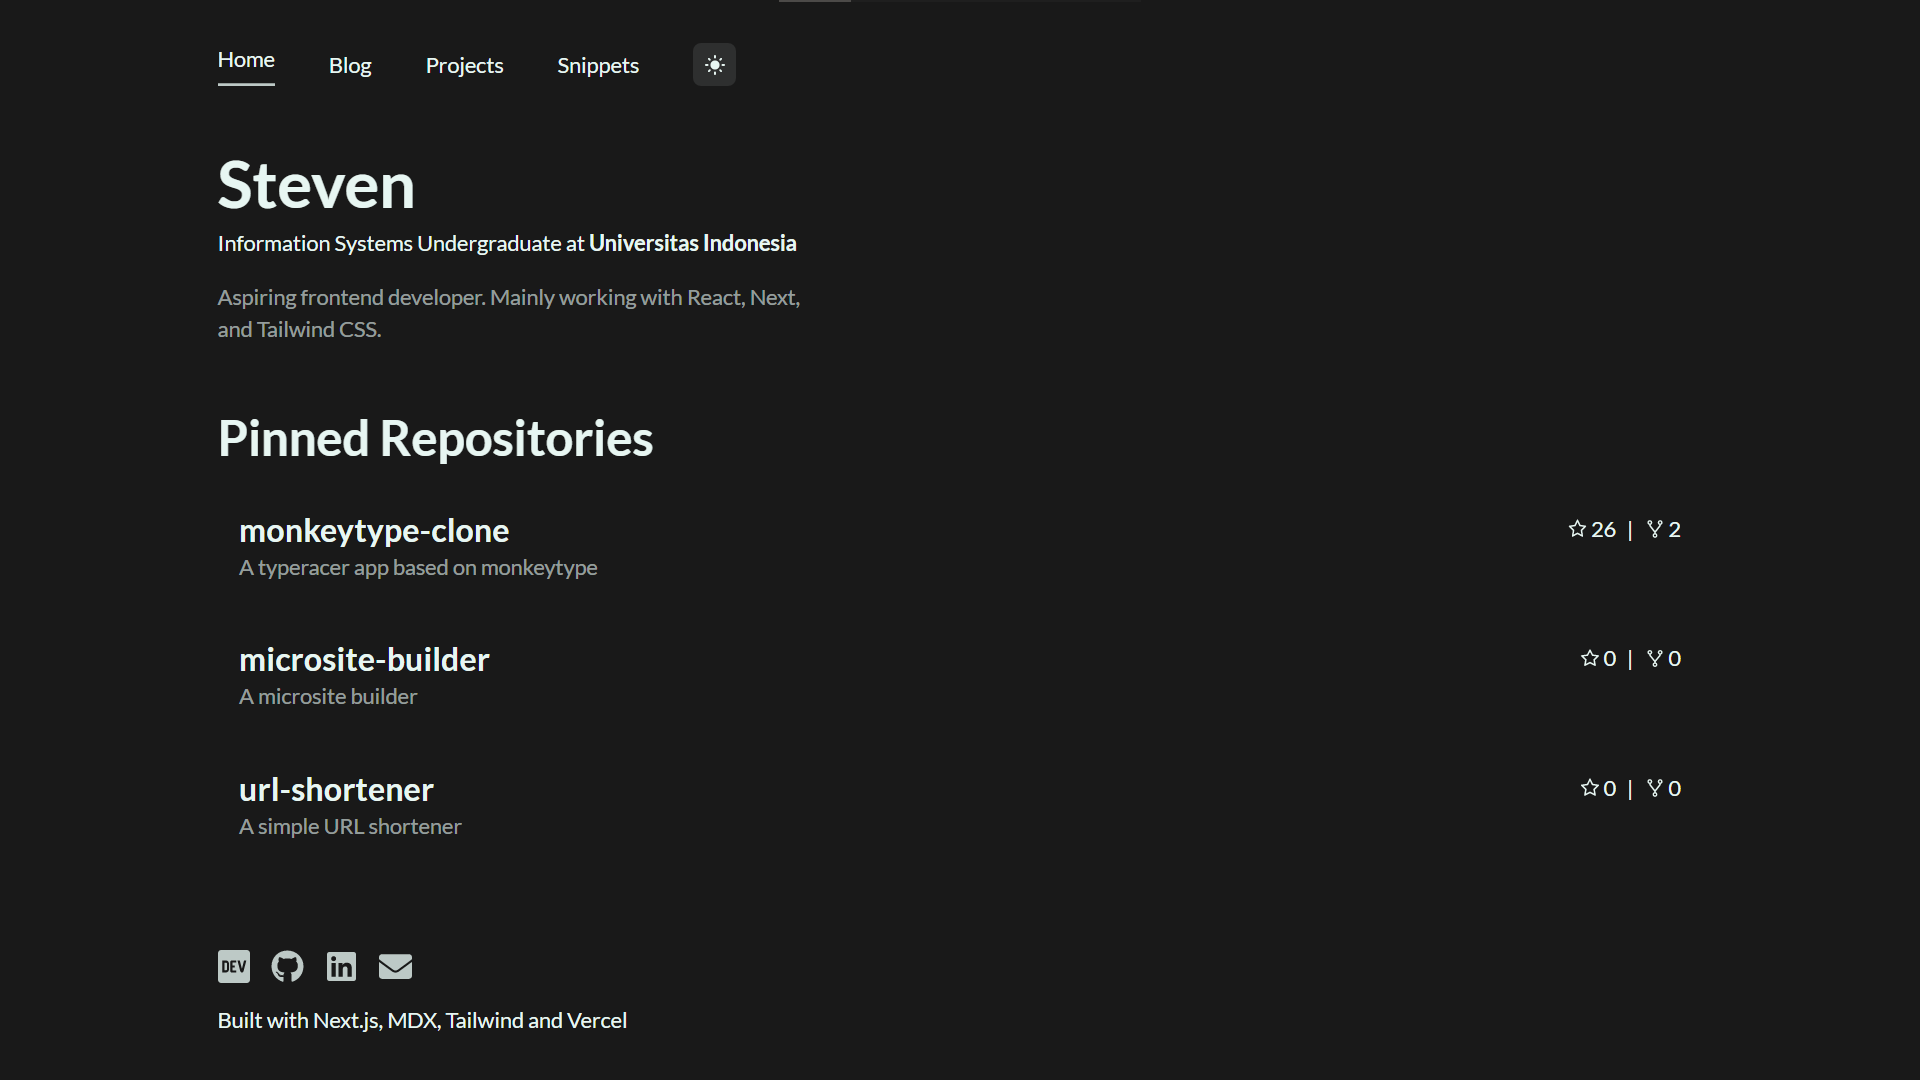
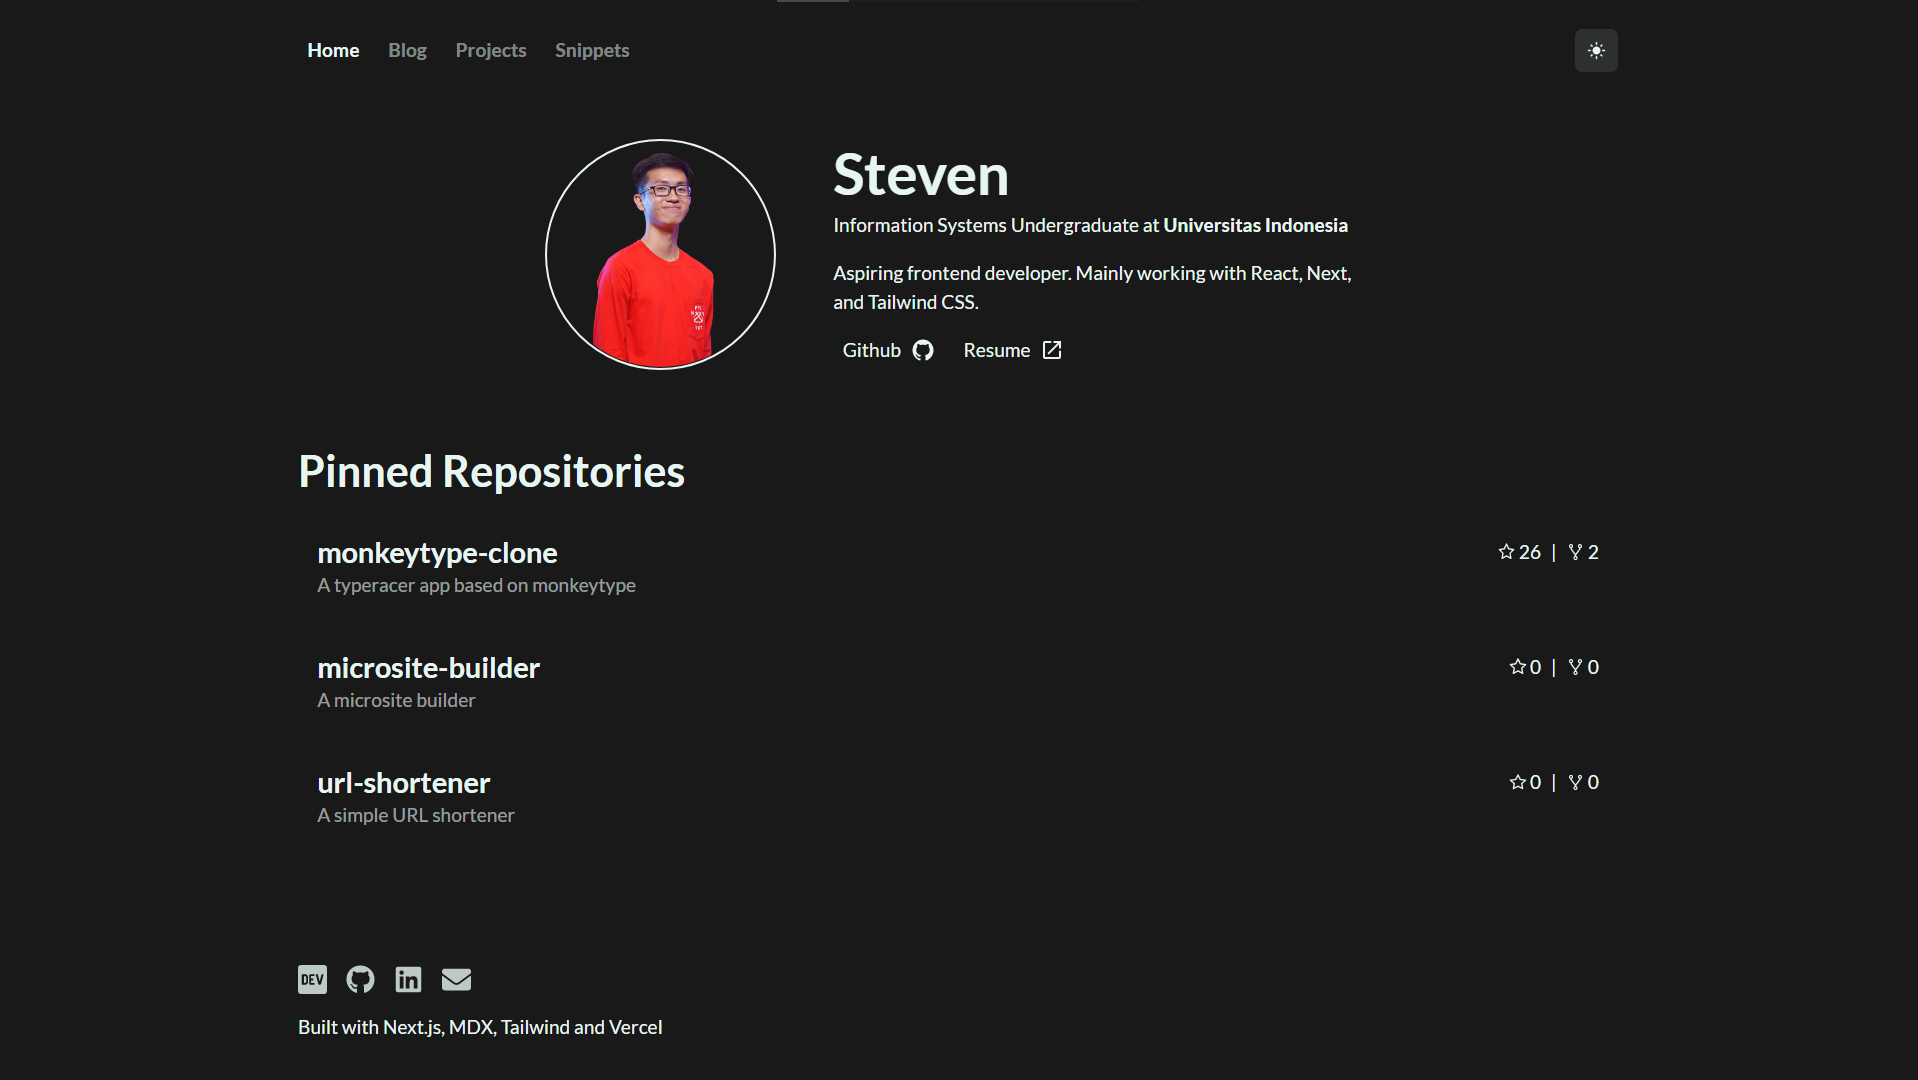
vercel: trigger deployment

diff --git a/src/components/Seo.tsx b/src/components/Seo.tsx
@@ -7,14 +7,14 @@ const defaultMeta = {
 	siteName: "Steven",
 	description: "My Personal Blog and Portfolio",
 	/** Without additional '/' on the end, e.g. https://theodorusclarence.com */
-	url: "https://portfolio-nu-six-31.vercel.app",
+	url: "https://steven2801.vercel.app",
 	type: "website",
 	robots: "follow, index",
 	/**
 	 * No need to be filled, will be populated with openGraph function
 	 * If you wish to use a normal image, just specify the path below
 	 */
-	image: "https://portfolio-nu-six-31.vercel.app/images/large-og.png",
+	image: "https://steven2801.vercel.app/images/large-og.png",
 };
 
 type SeoProps = {

diff --git a/pages/index.tsx b/pages/index.tsx
@@ -34,6 +34,7 @@ const Home = ({ repos }: { repos: RepoProps[] }) => {
 				>
 					{(blur || src) && (
 						<Image
+							priority
 							src={src}
 							alt="profile image"
 							width="100%"

diff --git a/next.sitemap.js b/next.sitemap.js
@@ -1,4 +1,4 @@
-const siteUrl = "https://portfolio-nu-six-31.vercel.app";
+const siteUrl = "https://steven2801.vercel.app";
 
 module.exports = {
 	siteUrl,
